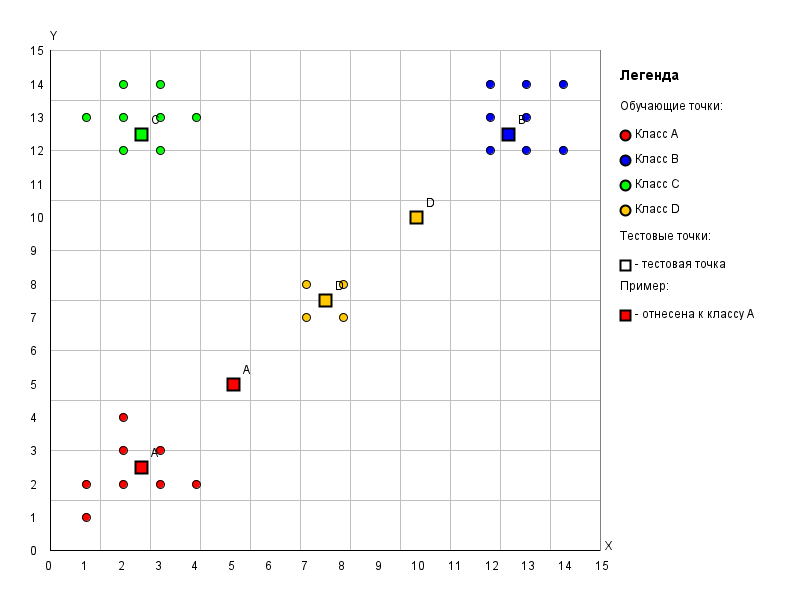
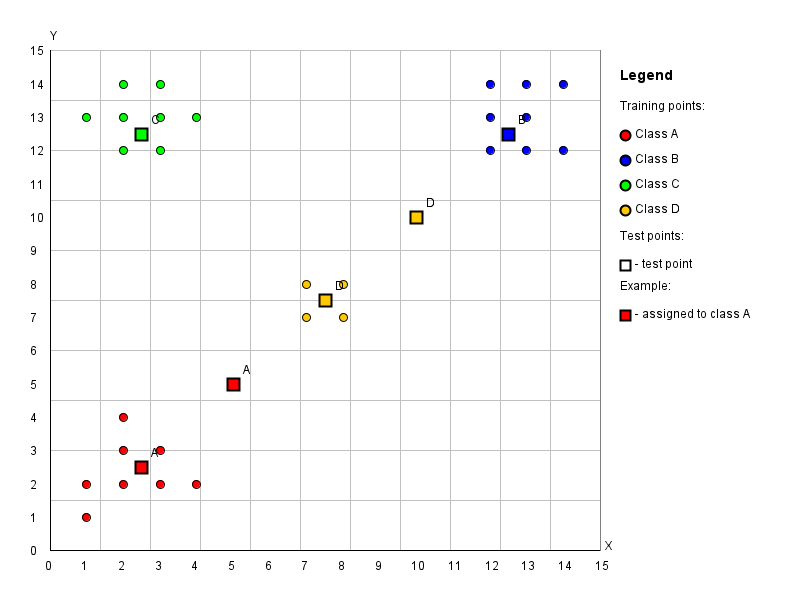
Перепроверка работ

diff --git a/tasks/term-1/6/app/src/main/java/org/example/KNN/KNNVisualizer.java b/tasks/term-1/6/app/src/main/java/org/example/KNN/KNNVisualizer.java
@@ -135,12 +135,12 @@ public class KNNVisualizer extends JPanel {
 
         g2d.setColor(Color.BLACK);
         g2d.setFont(new Font("Arial", Font.BOLD, 14));
-        g2d.drawString("Легенда", legendStartX, legendStartY - 10);
+        g2d.drawString("Legend", legendStartX, legendStartY - 10);
 
         g2d.setFont(new Font("Arial", Font.PLAIN, 12));
 
         g2d.setColor(Color.BLACK);
-        g2d.drawString("Обучающие точки:", legendStartX, legendStartY + 20);
+        g2d.drawString("Training points:", legendStartX, legendStartY + 20);
 
         int yOffset = 40;
         for (Map.Entry<String, Color> entry : colorMap.entrySet()) {
@@ -149,29 +149,29 @@ public class KNNVisualizer extends JPanel {
             g2d.setColor(Color.BLACK);
             g2d.drawOval(legendStartX, legendStartY + yOffset, 10, 10);
 
-            g2d.drawString("Класс " + entry.getKey(), legendStartX + 15, legendStartY + yOffset + 8);
+            g2d.drawString("Class " + entry.getKey(), legendStartX + 15, legendStartY + yOffset + 8);
             yOffset += 25;
         }
 
         yOffset += 10;
         g2d.setColor(Color.BLACK);
-        g2d.drawString("Тестовые точки:", legendStartX, legendStartY + yOffset);
+        g2d.drawString("Test points:", legendStartX, legendStartY + yOffset);
 
         yOffset += 20;
         g2d.setColor(Color.BLACK);
         g2d.drawRect(legendStartX, legendStartY + yOffset, 10, 10);
-        g2d.drawString("- тестовая точка", legendStartX + 15, legendStartY + yOffset + 8);
+        g2d.drawString("- test point", legendStartX + 15, legendStartY + yOffset + 8);
 
         yOffset += 30;
         g2d.setColor(Color.BLACK);
-        g2d.drawString("Пример:", legendStartX, legendStartY + yOffset);
+        g2d.drawString("Example:", legendStartX, legendStartY + yOffset);
 
         yOffset += 20;
         g2d.setColor(Color.RED);
         g2d.fillRect(legendStartX, legendStartY + yOffset, 10, 10);
         g2d.setColor(Color.BLACK);
         g2d.drawRect(legendStartX, legendStartY + yOffset, 10, 10);
-        g2d.drawString("- отнесена к классу A", legendStartX + 15, legendStartY + yOffset + 8);
+        g2d.drawString("- assigned to class A", legendStartX + 15, legendStartY + yOffset + 8);
     }
 
     private int scaleX(double x) {

diff --git a/tasks/term-1/8/app/src/test/java/org/example/AppTest.java b/tasks/term-1/8/app/src/test/java/org/example/AppTest.java
@@ -3,13 +3,6 @@
  */
 package org.example;
 
-import org.junit.jupiter.api.Test;
-import static org.junit.jupiter.api.Assertions.*;
-
 class AppTest {
-    @Test
-    void appHasAGreeting() {
-        App classUnderTest = new App();
-        assertNotNull(classUnderTest.getGreeting(), "app should have a greeting");
-    }
+
 }

diff --git a/tasks/term-1/6/app/src/test/java/org/example/AppTest.java b/tasks/term-1/6/app/src/test/java/org/example/AppTest.java
@@ -3,12 +3,6 @@
  */
 package org.example;
 
-import org.junit.Test;
-import static org.junit.Assert.*;
-
 public class AppTest {
-    @Test public void appHasAGreeting() {
-        App classUnderTest = new App();
-        assertNotNull("app should have a greeting", classUnderTest.getGreeting());
-    }
+
 }

diff --git a/tasks/term-1/6/app/src/main/java/org/example/App.java b/tasks/term-1/6/app/src/main/java/org/example/App.java
@@ -7,10 +7,6 @@ import java.util.*;
 import org.example.knn.*;
 
 public class App {
-    public String getGreeting() {
-        return "Hello World!";
-    }
-
     public static void main(String[] args) {
         KNNClassifier classifier = new KNNClassifier(3);
 
